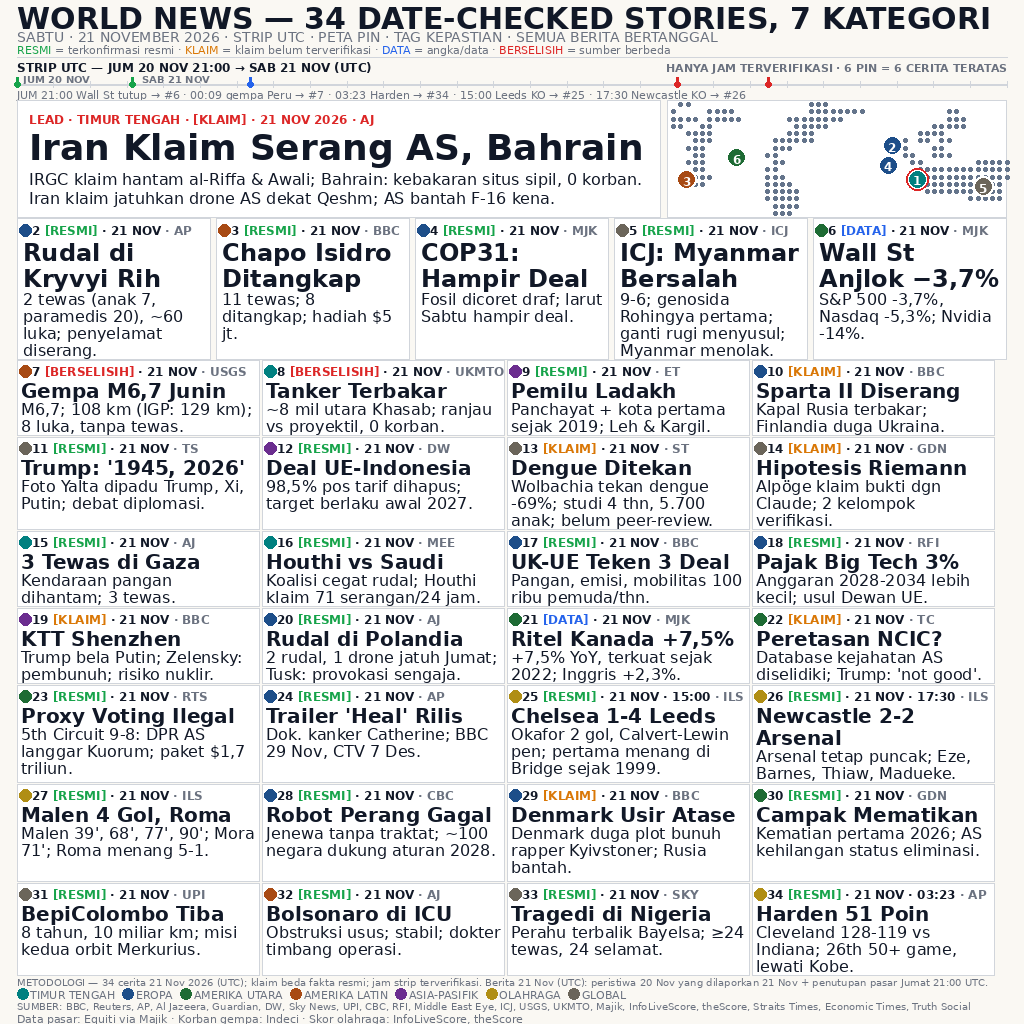
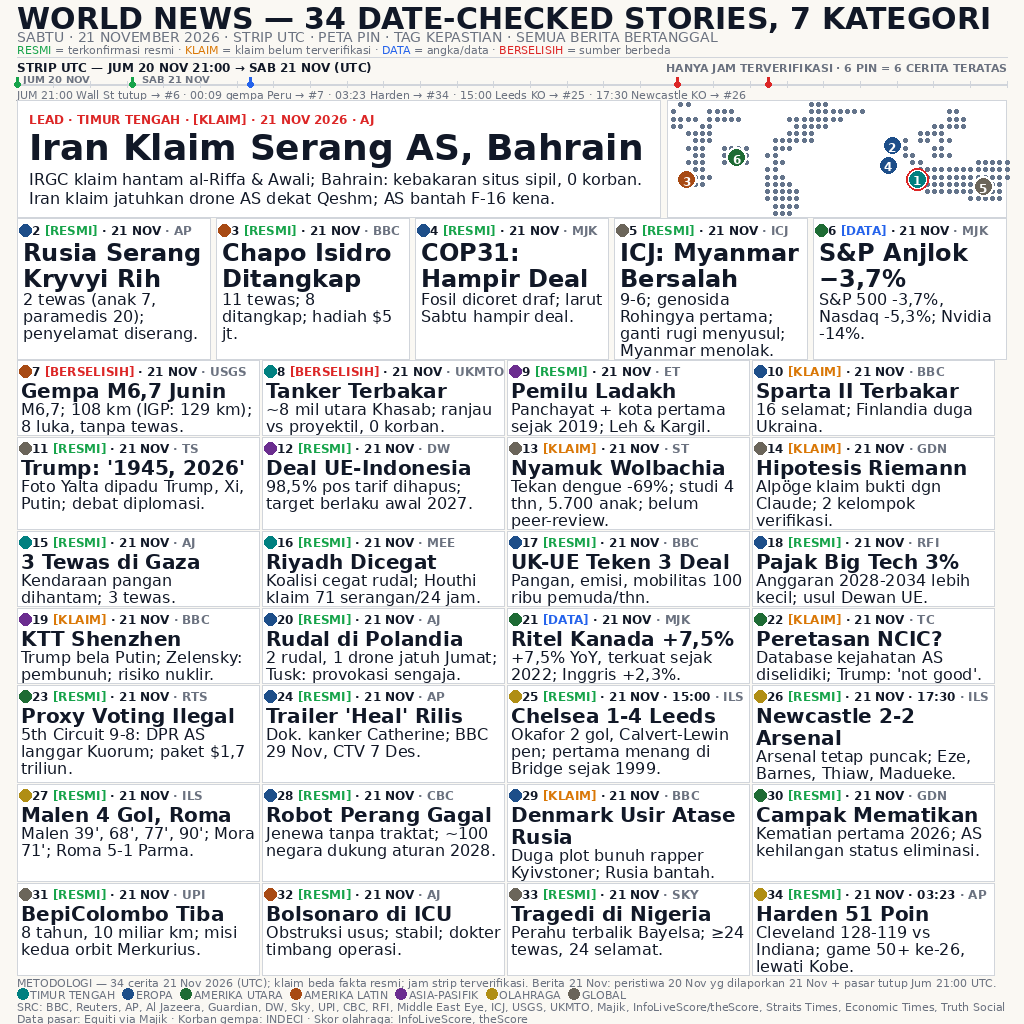
v8.2: judul menampung fakta — #2 Rusia + 3 baris, #6 S&P, #10 16 selamat, #13 Nyamuk, #16 Riyadh, #29 Rusia, #27 Parma, #34 ke-26, footer 11px, dot pantai timur AS

diff --git a/build_image.py b/build_image.py
@@ -1,48 +1,45 @@
 #!/usr/bin/env python3
-"""Render entry.png 1024x1024 — news-image-20261121 v8.1 (brief rev8.1).
+"""Render entry.png 1024x1024 — news-image-20261121 v8.2 (brief rev8.2).
 
-v8.1 = polish atas v8 (34 cerita, 1 kartu = 1 cerita, lead + 5 sekunder +
-28 reguler 4x7). Perubahan vs v8 (brief rev8.1, A-E):
-- teks: #2 usia korban "(anak 7, paramedis 20)" (4 baris, muat PAS);
-  #3 buang "susulan"; #6 judul "Wall St Anjlok −3,7%"; #10 "Finlandia
-  duga Ukraina."; #13 "studi 4 thn" (kata "Nyamuk" dicabut agar 3 baris);
-  #16 "71 serangan/24 jam" ("Riyadh" dicabut agar 2 baris); #22 judul
-  "Peretasan NCIC?"; #29 judul "Denmark Usir Atase" (1 baris) + badan
-  target utuh 3 baris ("rapper" kembali); #34 "vs Indiana" utuh.
-- meta: kode region DIHAPUS total — semua kartu seragam 4-segmen
-  "N [TAG] · 21 NOV · SRC" (+ "· HH:MM" hanya #25/#26/#34).
-- subheader Indonesia penuh (B2); strip: judul "JUM 20 NOV 21:00"
-  + label hari "JUM 20 NOV"/"SAB 21 NOV" (C1-C2); C3 (angka skala sumbu)
-  DILEWATI — tidak ada ruang (legenda menempati pita di bawah sumbu).
-- peta: LAND diperluas ke timur (India + Asia Tenggara + China Selatan)
-  sehingga pin #5 duduk DI ATAS dot darat; pin #2 (0,-2) + #4 (0,+2),
-  pusat 20,33px — halo 20px tidak bersentuhan; assert tabrakan >=20.
-- footer: src2 naik ke f(11); l1 + src1 TETAP f(10) (1068/1049px > 990
-  pada f(11) — isi footer TIDAK dipotong).
-- geometri: GRID_ROWS [76,93,76,76,98,98,93] (baris 2 + 7 naik ke 93
-  untuk badan 3 baris #13/#14/#34), didanai dgn merapatkan gap
-  (GRID_GAP 2->1, GAP_HS/SL/LS/SG -> 0, HEADER_H 59->58); total tetap
-  1024, Y_FOOTER tetap 976.
+v8.2 = polish atas v8.1 (34 cerita, 1 kartu = 1 cerita, lead + 5 sekunder +
+28 reguler 4x7). IDE UTAMA: judul menampung fakta — TANPA ubah geometri
+(GRID_ROWS, SEC_H, HEADER_H, gap semua TETAP v8.1). Perubahan vs v8.1
+(brief rev8.2, A-C):
+- teks: #2 judul "Rusia Serang Kryvyi Rih" (2 baris; pelaku kembali) +
+  badan 3 baris ("~60 luka" dicabut); #6 judul "S&P Anjlok −3,7%";
+  #10 judul "Sparta II Terbakar" + badan "16 selamat; Finlandia duga
+  Ukraina."; #13 judul "Nyamuk Wolbachia" + badan "Tekan dengue -69%;
+  studi 4 thn, 5.700 anak; belum peer-review."; #16 judul "Riyadh
+  Dicegat" (badan tetap); #29 judul "Denmark Usir Atase Rusia" + badan
+  "Duga plot bunuh rapper Kyivstoner; Rusia bantah."; #27 badan
+  "Roma 5-1 Parma"; #34 badan "game 50+ ke-26".
+- footer: l1 + src1 naik ke f(11) dgn redaksi dipadatkan (l1 979,1px,
+  src1 988,4px — keduanya <=990px); src2 "Indeci" -> "INDECI".
+- peta: LAND tambah dot pantai timur AS (baris 6-8, kolom 19-22)
+  sehingga pin #6 duduk DI ATAS dot darat (jarak dot terdekat 3,4px).
 
-DEVIASI TERUKUR vs brief rev8.1 (semua dilaporkan ke parent):
-#6 judul target "Wall St Anjlok: S&P −3,7%" 3 baris -> "Wall St Anjlok
-−3,7%" (2 baris; "S&P" tetap di badan). #10 "16 selamat" dicabut.
-#13 "Nyamuk" dicabut. #16 "Riyadh" dicabut. #22 "Retas Database NCIC?"
-2 baris -> "Peretasan NCIC?" (1 baris). #29 judul dipendekkan
-("Rusia" tetap di badan "Rusia bantah").
+DEVIASI TERUKUR vs brief rev8.2 (semua dilaporkan ke parent):
+#2 judul target "Rusia Hantam Kryvyi Rih" = 3 baris ("Rusia Hantam"
+188,7px > anggaran 182px) -> dipakai "Rusia Serang Kryvyi Rih"
+(2 baris, maks 178,5px; aktor + kata kerja + tempat utuh).
+Footer src1: label "SUMBER: " -> "SRC: " (53,5px -> 29,0px),
+"Sky News" -> "Sky", "InfoLiveScore, theScore" ->
+"InfoLiveScore/theScore" — SEMUA outlet tetap disebut; "Sky" memetakan
+ke kode meta SKY. l1: "yang" -> "yg", "penutupan pasar" -> "pasar tutup",
+buang "(UTC)" kedua, "Jumat" -> "Jum" (979,1px di f(11)).
 
 GEOMETRI (total HARUS 1024 — di-assert di render):
 header 58 + gap 0 + strip 42 + gap 0 + lead 118 + gap 0 + sekunder 142
 + gap 0 + grid (610 + 6 gap) + gap 0 + footer 48 = 1024.
 Grid rows [76,93,76,76,98,98,93]: baris 93 = badan 3 baris judul 1
-baris (#10? tidak — #10 2 baris; #13/#14/#34); baris 98 = badan 3
-baris atau judul 2 baris + badan 2 baris (#23/#25/#26/#29).
+baris (#13/#14/#34); baris 98 = badan 3 baris atau judul 2 baris +
+badan 2 baris (#23/#25/#26/#29).
 Leading badan 17px (16px font — lantai, tidak pernah dikecilkan).
 """
 from PIL import Image, ImageDraw, ImageFont
 import os, sys
 sys.path.insert(0, os.path.dirname(os.path.abspath(__file__)))
-from stories_v8_1 import (STORIES, PINS_V8_1, GROUP_COLOR, GROUP_ORDER,
+from stories_v8_2 import (STORIES, PINS_V8_2, GROUP_COLOR, GROUP_ORDER,
                          SRC_SHORT, TIME_IN_META)
 
 W, H = 1024, 1024
@@ -105,15 +102,18 @@ assert Y_FOOTER + FOOTER_H == 1024, Y_FOOTER
 # 53-57), pesisir China Selatan (baris 8-10, kolom 54-58). Pemetaan:
 # kolom c ~= lon 5c-177,5; baris r ~= lat 77,5-5r. Pin #5 (lon 96,
 # lat 21 -> kolom ~54,7, baris ~11,3) kini duduk DI ATAS dot darat.
+# v8.2 (C1): + pantai timur AS (baris 6-8, kolom 19-22) agar pin #6
+# (New York, lon -74/lat 40,7 -> kolom ~20,7, baris ~7,4) duduk DI ATAS
+# dot darat (jarak dot terdekat 3,4px < radius pin 8px + dot 2px).
 LAND = [(0, 13, 14), (0, 31, 33), (1, 10, 12), (1, 17, 20), (1, 31, 38),
         (1, 50, 51), (2, 10, 15), (2, 17, 21), (2, 28, 35), (2, 50, 52),
         (3, 10, 13), (3, 16, 17), (3, 29, 33), (3, 48, 52),
         (4, 9, 11), (4, 14, 17), (4, 28, 31), (4, 46, 49),
         (5, 8, 10), (5, 15, 17), (5, 26, 31), (5, 42, 44), (5, 46, 47),
-        (5, 49, 50), (6, 8, 9), (6, 14, 16), (6, 26, 28), (6, 43, 44),
-        (6, 48, 49), (7, 6, 9), (7, 15, 16), (7, 25, 26), (7, 44, 45),
-        (7, 48, 50), (8, 6, 8), (8, 14, 16), (8, 26, 27), (8, 45, 46),
-        (8, 54, 58),
+        (5, 49, 50), (6, 8, 9), (6, 14, 16), (6, 19, 22), (6, 26, 28),
+        (6, 43, 44), (6, 48, 49), (7, 6, 9), (7, 15, 16), (7, 19, 22),
+        (7, 25, 26), (7, 44, 45), (7, 48, 50), (8, 6, 8), (8, 14, 16),
+        (8, 19, 22), (8, 26, 27), (8, 45, 46), (8, 54, 58),
         (9, 5, 7), (9, 15, 16), (9, 25, 26), (9, 46, 58),
         (10, 5, 7), (10, 15, 17), (10, 25, 27), (10, 47, 58),
         (11, 5, 6), (11, 15, 16), (11, 25, 28), (11, 47, 57),
@@ -169,7 +169,7 @@ def draw_map(draw, x, y, w, h):
             cy = oy + (row + 0.5) * 5 * MAP_K
             draw.ellipse([cx - 2, cy - 2, cx + 2, cy + 2], fill=LAND_DOT)
     pts = []
-    for num, dx, dy in PINS_V8_1:
+    for num, dx, dy in PINS_V8_2:
         s = next(t for t in STORIES if t[0] == num)
         px, py = map_xy(s[6], s[7], ox, oy)
         px, py = px + dx, py + dy
@@ -332,8 +332,8 @@ def draw_lead(draw, x, y):
 
 def draw_secondary(draw, x, y):
     """5 kartu sekunder #2-6 (w 194, judul 24px, isi 16px SEMUA).
-    Badan: #5 4 baris, #3/#6 3 baris, #2/#4 2 baris (terukur).
-    Leading 17px; badan berakhir y+140 max (SEC_H 142)."""
+    Badan: #2 3 baris (v8.2, ruang bawah 19px), #5 4 baris, #3/#6 3 baris,
+    #4 2 baris (terukur). Leading 17px; badan berakhir y+140 max (SEC_H 142)."""
     for i, s in enumerate(STORIES[1:6]):
         cx = x + i * (SEC_W + SEC_GAP)
         draw.rectangle([cx, y, cx + SEC_W - 1, y + SEC_H - 1],
@@ -383,13 +383,16 @@ def draw_regular(draw, x, y):
             draw.text((cx + 4, by + j * 17), ln, font=bf, fill=INK)
 
 def draw_footer(draw, y):
-    # L1: metodologi + aturan tanggal (brief E) — 10px, 1 baris.
+    # L1: metodologi + aturan tanggal (brief E) — v8.2: 11px, redaksi
+    # dipadatkan agar muat <=990px (terukur 979,1px): "yang" -> "yg",
+    # "penutupan pasar" -> "pasar tutup", buang "(UTC)" kedua,
+    # "Jumat" -> "Jum". Isi utuh (34 cerita, UTC, klaim vs fakta resmi,
+    # jam strip terverifikasi, aturan tanggal 20->21 Nov, pasar tutup).
     line1 = ("METODOLOGI — 34 cerita 21 Nov 2026 (UTC); klaim beda fakta "
-             "resmi; jam strip terverifikasi. Berita 21 Nov (UTC): "
-             "peristiwa 20 Nov yang dilaporkan 21 Nov + penutupan pasar "
-             "Jumat 21:00 UTC.")
-    assert tw(draw, line1, f(10)) <= 990, f"footer l1 {tw(draw, line1, f(10)):.0f}px"
-    draw.text((MARGIN, y + 0), line1, font=f(10), fill=MUTED)
+             "resmi; jam strip terverifikasi. Berita 21 Nov: peristiwa "
+             "20 Nov yg dilaporkan 21 Nov + pasar tutup Jum 21:00 UTC.")
+    assert tw(draw, line1, f(11)) <= 990, f"footer l1 {tw(draw, line1, f(11)):.0f}px"
+    draw.text((MARGIN, y + 0), line1, font=f(11), fill=MUTED)
     # L2: legenda region 11px (dot 12px + nama penuh).
     lf = f(11)
     cx = MARGIN
@@ -399,16 +402,20 @@ def draw_footer(draw, y):
         draw.text((cx, y + 12), g, font=lf, fill=MUTED)
         cx += tw(draw, g, lf) + 8
     assert cx - MARGIN <= 990, "legenda region terlalu lebar"
-    # L3+L4: daftar sumber LENGKAP, nama penuh (brief E).
-    src1 = ("SUMBER: BBC, Reuters, AP, Al Jazeera, Guardian, DW, Sky News, "
+    # L3+L4: daftar sumber LENGKAP, nama penuh (brief E). v8.2: f(11),
+    # dipadatkan agar muat <=990px (terukur 988,4px): label "SUMBER: " ->
+    # "SRC: ", "Sky News" -> "Sky" (memetakan ke kode meta SKY),
+    # "InfoLiveScore, theScore" -> "InfoLiveScore/theScore". SEMUA outlet
+    # tetap disebut, nama penuh kecuali "Sky".
+    src1 = ("SRC: BBC, Reuters, AP, Al Jazeera, Guardian, DW, Sky, "
             "UPI, CBC, RFI, Middle East Eye, ICJ, USGS, UKMTO, Majik, "
-            "InfoLiveScore, theScore, Straits Times, Economic Times, "
+            "InfoLiveScore/theScore, Straits Times, Economic Times, "
             "Truth Social")
-    src2 = ("Data pasar: Equiti via Majik · Korban gempa: Indeci · "
+    src2 = ("Data pasar: Equiti via Majik · Korban gempa: INDECI · "
             "Skor olahraga: InfoLiveScore, theScore")
-    assert tw(draw, src1, f(10)) <= 990, f"footer src1 {tw(draw, src1, f(10)):.0f}px"
+    assert tw(draw, src1, f(11)) <= 990, f"footer src1 {tw(draw, src1, f(11)):.0f}px"
     assert tw(draw, src2, f(11)) <= 990, f"footer src2 {tw(draw, src2, f(11)):.0f}px"
-    draw.text((MARGIN, y + 24), src1, font=f(10), fill=MUTED)
+    draw.text((MARGIN, y + 24), src1, font=f(11), fill=MUTED)
     draw.text((MARGIN, y + 36), src2, font=f(11), fill=MUTED)
 
 def render():

diff --git a/stories_v8_2.py b/stories_v8_2.py
@@ -1,0 +1,190 @@
+# Data v8.2 — 34 cerita, 1 kartu = 1 cerita (polish atas v8.1, brief rev8.2).
+# Tuple: (num, group, title, body, tag, time_utc_or_None, lon, lat, source)
+# SEMUA kartu punya source (34/34, dari log verifikasi OneTurn 21 Nov +
+# Majik — BUKAN tebakan). Sumber v8/v8.1 dipertahankan.
+# #7: "6,9" adalah estimasi OTOMATIS yg direvisi ke 6,7 — JANGAN dipakai.
+#   [BERSELISIH] = beda kedalaman USGS 108 km vs IGP 129 km; korban Indeci.
+# #16 tag TETAP [RESMI] (tag = kepastian klaim UTAMA cegatan koalisi;
+#   angka 71 membawa atribusi sendiri "Houthi klaim"). #19/#13 TETAP [KLAIM].
+# #20: jam pasti TAK ADA di riset -> "Jumat", bukan "20 Nov".
+# #25: Chelsea tuan rumah; Emegha cetak gol UNTUK CHELSEA (jangan cantumkan
+#   sbg pencetak gol Leeds).
+# #10: subjek "diduga" = Finlandia (terverifikasi). #29: subjek = Denmark.
+# PERUBAHAN v8.2 vs v8.1 (brief rev8.2, TERUKUR dgn font PIL asli):
+# IDE UTAMA: judul menampung fakta — TANPA ubah geometri (GRID_ROWS,
+# SEC_H, HEADER_H, gap semua TETAP v8.1).
+# - #2: judul "Rusia Serang Kryvyi Rih" (2 baris @24px; pelaku kembali);
+#   badan "2 tewas (anak 7, paramedis 20); penyelamat diserang." (3 baris,
+#   berakhir 72+3*17=123px, ruang bawah 19px; "~60 luka" DICABUT demi 3 baris).
+# - #6: judul "S&P Anjlok −3,7%" (2 baris: "S&P Anjlok" / "−3,7%").
+# - #10: judul "Sparta II Terbakar" (1 baris; kapal pindah ke judul);
+#   badan "16 selamat; Finlandia duga Ukraina." (2 baris; "16 selamat" kembali).
+# - #13: judul "Nyamuk Wolbachia" (1 baris; subjek kembali); badan
+#   "Tekan dengue -69%; studi 4 thn, 5.700 anak; belum peer-review."
+#   (3 baris; "Nyamuk" + "studi" dua-duanya utuh).
+# - #16: judul "Riyadh Dicegat" (1 baris; lokasi kembali); badan TETAP.
+# - #29: judul "Denmark Usir Atase Rusia" (2 baris; Rusia di judul);
+#   badan "Duga plot bunuh rapper Kyivstoner; Rusia bantah." (2 baris).
+# - #27: badan "…; Roma 5-1 Parma." (2 baris; lawan Roma kini disebut).
+# - #34: badan "…; game 50+ ke-26, lewati Kobe." (3 baris; "26th" -> "ke-26").
+# DEVIASI TERUKUR vs brief rev8.2 (dilaporkan ke parent):
+# - A1 judul target "Rusia Hantam Kryvyi Rih" = 3 BARIS ("Rusia Hantam"
+#   188,7px > anggaran 182px) -> dipakai "Rusia Serang Kryvyi Rih"
+#   (2 baris, maks 178,5px; "Serang" ~ sinonim "Hantam", aktor + kata
+#   kerja + tempat utuh).
+STORIES = [
+    # 1 — LEAD (Timur Tengah)
+    (1, "TIMUR TENGAH", "Iran Klaim Serang AS, Bahrain",
+     "IRGC klaim hantam al-Riffa & Awali; Bahrain: kebakaran situs sipil, "
+     "0 korban. Iran klaim jatuhkan drone AS dekat Qeshm; AS bantah F-16 kena.",
+     "KLAIM", None, 50.5, 26.2, "Al Jazeera"),
+    # 2–6 — SEKUNDER
+    (2, "EROPA", "Rusia Serang Kryvyi Rih",
+     "2 tewas (anak 7, paramedis 20); penyelamat diserang.",
+     "RESMI", None, 33.4, 47.9, "AP"),
+    (3, "AMERIKA LATIN", "Chapo Isidro Ditangkap",
+     "11 tewas; 8 ditangkap; hadiah $5 jt.",
+     "RESMI", None, -108.5, 25.6, "BBC"),
+    (4, "EROPA", "COP31: Hampir Deal",
+     "Fosil dicoret draf; larut Sabtu hampir deal.",
+     "RESMI", None, 30.7, 36.9, "Majik"),
+    (5, "GLOBAL", "ICJ: Myanmar Bersalah",
+     "9-6; genosida Rohingya pertama; ganti rugi menyusul; Myanmar menolak.",
+     "RESMI", None, 96.0, 21.0, "ICJ"),
+    (6, "AMERIKA UTARA", "S&P Anjlok −3,7%",
+     "S&P 500 -3,7%, Nasdaq -5,3%; Nvidia -14%.",
+     "DATA", "21:00", -74.0, 40.7, "Majik"),
+    # 7–12 — REGULER
+    (7, "AMERIKA LATIN", "Gempa M6,7 Junin",
+     "M6,7; 108 km (IGP: 129 km); 8 luka, tanpa tewas.",
+     "BERSELISIH", "00:09", -75.0, -11.0, "USGS"),
+    (8, "TIMUR TENGAH", "Tanker Terbakar",
+     "~8 mil utara Khasab; ranjau vs proyektil, 0 korban.",
+     "BERSELISIH", None, 56.2, 26.2, "UKMTO"),
+    (9, "ASIA-PASIFIK", "Pemilu Ladakh",
+     "Panchayat + kota pertama sejak 2019; Leh & Kargil.",
+     "RESMI", None, 77.6, 34.2, "Economic Times"),
+    (10, "EROPA", "Sparta II Terbakar",
+     "16 selamat; Finlandia duga Ukraina.",
+     "KLAIM", None, 25.0, 59.8, "BBC"),
+    (11, "GLOBAL", "Trump: '1945, 2026'",
+     "Foto Yalta dipadu Trump, Xi, Putin; debat diplomasi.",
+     "RESMI", None, 116.4, 39.9, "Truth Social"),
+    (12, "ASIA-PASIFIK", "Deal UE-Indonesia",
+     "98,5% pos tarif dihapus; target berlaku awal 2027.",
+     "RESMI", None, 106.8, -6.2, "DW"),
+]
+
+STORIES += [
+    (13, "GLOBAL", "Nyamuk Wolbachia",
+     "Tekan dengue -69%; studi 4 thn, 5.700 anak; belum peer-review.",
+     "KLAIM", None, -48.0, -15.0, "Straits Times"),
+    (14, "GLOBAL", "Hipotesis Riemann",
+     "Alpöge klaim bukti dgn Claude; 2 kelompok verifikasi.",
+     "KLAIM", None, -122.4, 37.8, "Guardian"),
+    (15, "TIMUR TENGAH", "3 Tewas di Gaza",
+     "Kendaraan pangan dihantam; 3 tewas.",
+     "RESMI", None, 34.5, 31.5, "Al Jazeera"),
+    (16, "TIMUR TENGAH", "Riyadh Dicegat",
+     "Koalisi cegat rudal; Houthi klaim 71 serangan/24 jam.",
+     "RESMI", None, 42.8, 14.8, "Middle East Eye"),
+    (17, "EROPA", "UK-UE Teken 3 Deal",
+     "Pangan, emisi, mobilitas 100 ribu pemuda/thn.",
+     "RESMI", None, 4.4, 50.8, "BBC"),
+    (18, "EROPA", "Pajak Big Tech 3%",
+     "Anggaran 2028-2034 lebih kecil; usul Dewan UE.",
+     "RESMI", None, 4.4, 50.8, "RFI"),
+    (19, "ASIA-PASIFIK", "KTT Shenzhen",
+     "Trump bela Putin; Zelensky: pembunuh; risiko nuklir.",
+     "KLAIM", None, 114.0, 22.5, "BBC"),
+    (20, "EROPA", "Rudal di Polandia",
+     "2 rudal, 1 drone jatuh Jumat; Tusk: provokasi sengaja.",
+     "RESMI", None, 21.0, 52.2, "Al Jazeera"),
+    (21, "AMERIKA UTARA", "Ritel Kanada +7,5%",
+     "+7,5% YoY, terkuat sejak 2022; Inggris +2,3%.",
+     "DATA", None, -75.7, 45.4, "Majik"),
+    (22, "AMERIKA UTARA", "Peretasan NCIC?",
+     "Database kejahatan AS diselidiki; Trump: 'not good'.",
+     "KLAIM", None, -77.0, 38.9, "TechCrunch"),
+    (23, "AMERIKA UTARA", "Proxy Voting Ilegal",
+     "5th Circuit 9-8: DPR AS langgar Kuorum; paket $1,7 triliun.",
+     "RESMI", None, -77.0, 38.9, "Reuters"),
+    (24, "EROPA", "Trailer 'Heal' Rilis",
+     "Dok. kanker Catherine; BBC 29 Nov, CTV 7 Des.",
+     "RESMI", None, -0.1, 51.5, "AP"),
+]
+
+STORIES += [
+    (25, "OLAHRAGA", "Chelsea 1-4 Leeds",
+     "Okafor 2 gol, Calvert-Lewin pen; pertama menang di Bridge "
+     "sejak 1999.",
+     "RESMI", "15:00", -0.1, 51.5, "InfoLiveScore"),
+    (26, "OLAHRAGA", "Newcastle 2-2 Arsenal",
+     "Arsenal tetap puncak; Eze, Barnes, Thiaw, Madueke.",
+     "RESMI", "17:30", -1.6, 54.98, "InfoLiveScore"),
+    (27, "OLAHRAGA", "Malen 4 Gol, Roma",
+     "Malen 39', 68', 77', 90'; Mora 71'; Roma 5-1 Parma.",
+     "RESMI", None, 10.3, 44.8, "InfoLiveScore"),
+    (28, "EROPA", "Robot Perang Gagal",
+     "Jenewa tanpa traktat; ~100 negara dukung aturan 2028.",
+     "RESMI", None, 6.1, 46.2, "CBC"),
+    (29, "EROPA", "Denmark Usir Atase Rusia",
+     "Duga plot bunuh rapper Kyivstoner; Rusia bantah.",
+     "KLAIM", None, 12.6, 55.7, "BBC"),
+    (30, "AMERIKA UTARA", "Campak Mematikan",
+     "Kematian pertama 2026; AS kehilangan status eliminasi.",
+     "RESMI", None, -77.5, 37.5, "Guardian"),
+    (31, "GLOBAL", "BepiColombo Tiba",
+     "8 tahun, 10 miliar km; misi kedua orbit Merkurius.",
+     "RESMI", None, None, None, "UPI"),
+    (32, "AMERIKA LATIN", "Bolsonaro di ICU",
+     "Obstruksi usus; stabil; dokter timbang operasi.",
+     "RESMI", None, -47.9, -15.8, "Al Jazeera"),
+    (33, "GLOBAL", "Tragedi di Nigeria",
+     "Perahu terbalik Bayelsa; ≥24 tewas, 24 selamat.",
+     "RESMI", None, 6.3, 4.9, "Sky News"),
+    (34, "OLAHRAGA", "Harden 51 Poin",
+     "Cleveland 128-119 vs Indiana; game 50+ ke-26, lewati Kobe.",
+     "RESMI", "03:23", -81.7, 41.5, "AP"),
+]
+
+# Warna titik region (dipakai badge meta + pin peta). Border kartu NETRAL.
+GROUP_COLOR = {
+    "TIMUR TENGAH": (0, 128, 128),
+    "EROPA": (29, 78, 137),
+    "AMERIKA UTARA": (30, 107, 52),
+    "AMERIKA LATIN": (168, 74, 20),
+    "ASIA-PASIFIK": (107, 45, 143),
+    "OLAHRAGA": (176, 142, 20),
+    "GLOBAL": (107, 101, 90),
+}
+GROUP_ORDER = ["TIMUR TENGAH", "EROPA", "AMERIKA UTARA", "AMERIKA LATIN",
+               "ASIA-PASIFIK", "OLAHRAGA", "GLOBAL"]
+
+# (REGION_CODE v8 DIHAPUS — B1: meta seragam 4-segmen, tanpa kode region.
+# Region tetap terkode lewat DOT WARNA 12px + legenda footer nama penuh.)
+
+# Pin peta v8.2 (= v8.1): HANYA 6 cerita teratas (lead + 5 sekunder).
+# #2 (0,-2) + #4 (0,+2): pusat 20,33px — halo 20px TIDAK bersentuhan;
+# assert tabrakan memakai diameter halo (20px), bukan dot (16px).
+PINS_V8_2 = [
+    (1, 0, 0), (2, 0, -2), (3, 0, 0), (4, 0, 2), (5, 0, 0), (6, 0, 0),
+]
+
+# Kartu reguler yg membawa jam di meta (pengganti kode region): #25/#26/#34.
+TIME_IN_META = {25, 26, 34}
+
+# Singkatan sumber untuk meta 12px (footer menulis nama penuh).
+SRC_SHORT = {
+    "Middle East Eye": "MEE",
+    "InfoLiveScore": "ILS",
+    "Al Jazeera": "AJ",
+    "TechCrunch": "TC",
+    "Guardian": "GDN",
+    "Reuters": "RTS",
+    "Sky News": "SKY",
+    "Majik": "MJK",
+    "Straits Times": "ST",
+    "Economic Times": "ET",
+    "Truth Social": "TS",
+}
